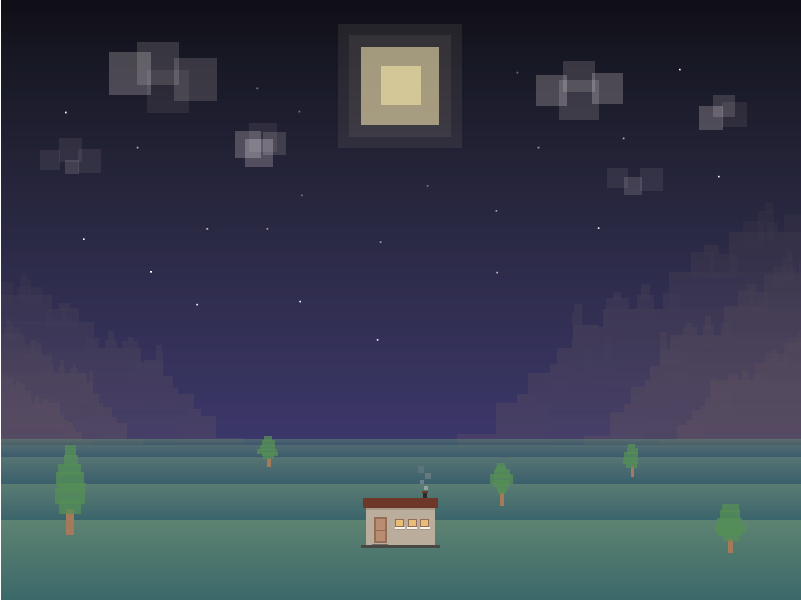
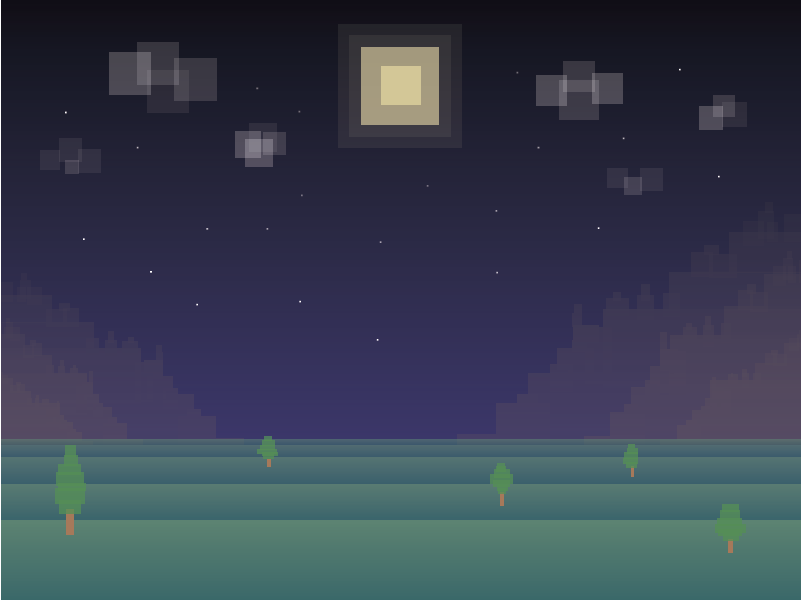
Displa home life. Animate home hit

Changed region(s): [[0.437, 0.8087, 0.5618, 0.9285]]

diff --git a/web/js/game.js b/web/js/game.js
@@ -1,6 +1,7 @@
 window.GhostLand.Game = (function(GhostLand){
   var Settings = GhostLand.Settings
     , Enemies = GhostLand.Enemies
+    , Home = GhostLand.Home
     , game
     , background
     , gameStates = {
@@ -76,6 +77,7 @@ window.GhostLand.Game = (function(GhostLand){
     game.load.image('bg-day', 'assets/bg-day.png');
     game.load.image('bg-night', 'assets/bg-night.png');
     game.load.spritesheet('sprite-ghost', 'assets/sprite-ghost.png', 74, 53, 6, 0, 1);
+    game.load.spritesheet('sprite-home', 'assets/sprite-home.png', 79, 82, 4, 0, 1);
     game.load.audio('audio-death', 'assets/audio/death.mp3')
     game.load.audio('audio-gameplay', 'assets/audio/gameplay.mp3')
     game.load.audio('audio-hit', 'assets/audio/hit.mp3')
@@ -108,6 +110,7 @@ window.GhostLand.Game = (function(GhostLand){
 
     // Enemies
     Enemies.init(game)
+    Home.init(game)
 
     // Audio
     audio.death = game.add.audio('audio-death')
@@ -128,6 +131,8 @@ window.GhostLand.Game = (function(GhostLand){
 
     if (currentStateName === 'game' && Enemies.isHouseHit()) {
       currentLife--;
+      Home.setLife(currentLife)
+      Home.hit()
       console.log('Life left', currentLife)
 
       if (currentLife == 0) {
@@ -196,12 +201,14 @@ window.GhostLand.Game = (function(GhostLand){
 
     if (nextState === 'game') {
       Enemies.start()
+      Home.show()
       scoreText.text = '0'
       audio.start && audio.start.play()
       audio.intro && audio.intro.isPlaying && audio.intro.stop()
       audio.gameplay && !audio.gameplay.isPlaying && audio.gameplay.play()
     } else {
       Enemies.stop()
+      Home.hide()
       scoreText.text = ''
       audio.gameplay && audio.gameplay.isPlaying && audio.gameplay.stop()
       audio.intro && !audio.intro.isPlaying && audio.intro.play()

diff --git a/web/js/home.js b/web/js/home.js
@@ -1,0 +1,36 @@
+window.GhostLand.Home = (function(GhostLand){
+  var game
+    , home = null
+    , homeX = 400 - 40
+    , homeY = 525 - 55
+
+  function init(_game) {
+    game = _game
+  }
+
+  function show() {
+    home = game.add.sprite(homeX, homeY, 'sprite-home')
+  }
+
+  function hide() {
+    home && home.destroy()
+    home = null
+  }
+
+  function setLife(life) {
+    home.frame = Math.min(3, Math.max(0, 3 - life))
+  }
+
+  function hit() {
+    home && game.add.tween(home)
+      .to({x: homeX + 10}, 100, Phaser.Easing.Bounce.InOut, true, 0, 0, true);
+  }
+
+  return {
+    init: init
+  , show: show
+  , hide: hide
+  , setLife: setLife
+  , hit: hit
+  }
+})(window.GhostLand)

diff --git a/web/index.html b/web/index.html
@@ -20,6 +20,7 @@
   <script src="./js/observer.js"></script>
   <script src="./js/kinect.js"></script>
   <script src="./js/enemies.js"></script>
+  <script src="./js/home.js"></script>
   <script src="./js/game.js"></script>
   <script src="./js/script.js"></script>
 </body>
